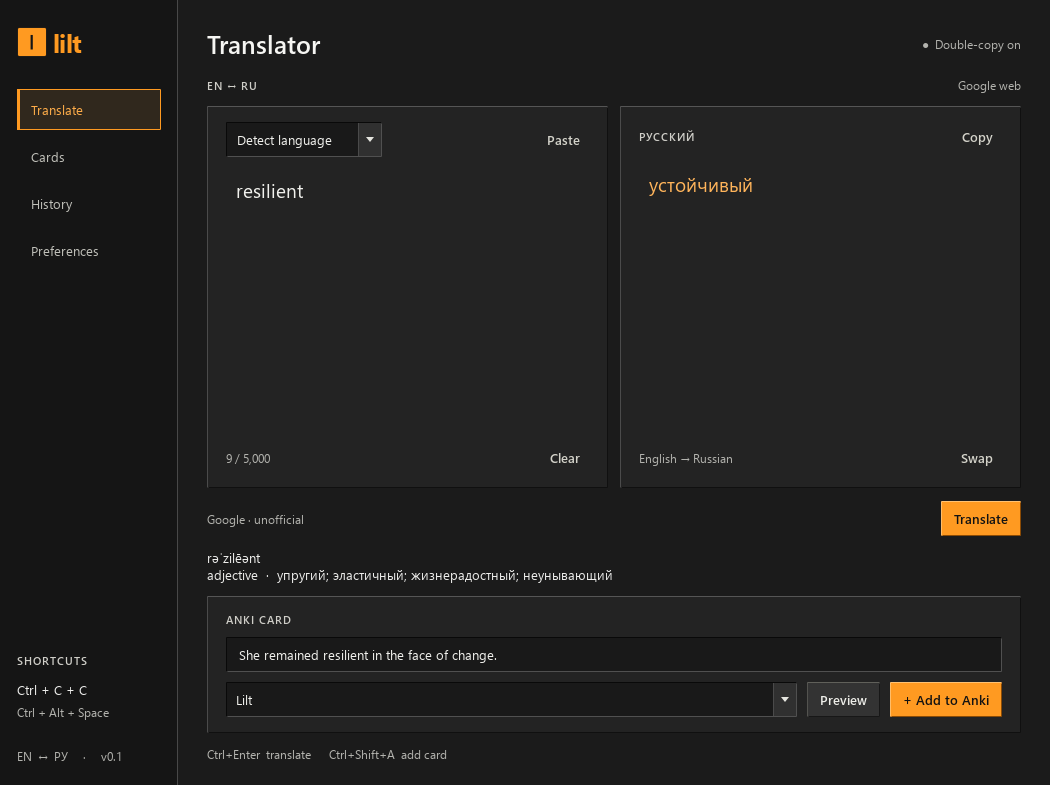
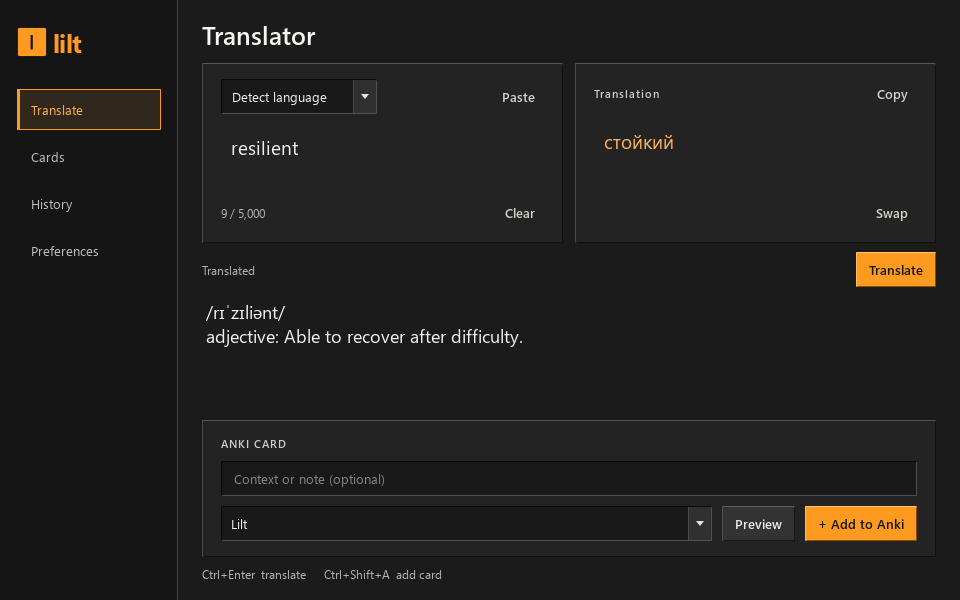
Add Windows installer and first release documentation

diff --git a/README.md b/README.md
@@ -1,24 +1,37 @@
 # Lilt
 
-A small Windows desktop translator for **English ↔ Russian**, with a quick selection popup, local translation history, and shortcut-driven Anki cards. No Lilt account is needed.
+A small Windows desktop translator for **English ↔ Russian**, with a quick selection popup, local history, and English vocabulary cards for Anki. No Lilt account is needed.
 
-The interface uses a charcoal theme, orange accents, sharp borders, and square checkboxes. The main window starts at **960 × 600**, with compact text panes for words and short phrases. Translation text stays at **19 px**; pronunciation and details use **18 px** with wrapping and scrolling. Resize the window for longer text. Repeated language/provider badges and capture-status help are hidden; language selection, Swap, and Preferences remain available.
+**[Download setup.exe for Windows](https://github.com/PesochekWork/lilt-translator/releases/latest/download/setup.exe)** · [All releases](https://github.com/PesochekWork/lilt-translator/releases)
+
+## Install
+
+Requires **Windows 10 or 11, 64-bit (x64)**. Python is not needed.
+
+1. Download **setup.exe** from the latest release and run it.
+2. Follow the setup wizard. Lilt installs for your Windows account without administrator privileges. A Start menu entry and a desktop shortcut are included by default.
+3. Open **Lilt** and enter a word, or use the selection shortcut below.
+
+The installer is not code-signed, so Windows may show a SmartScreen prompt. Download it from this repository's Releases page.
+
+Before updating, save any text you need and choose **Quit Lilt** from its system-tray menu. Closing the window normally leaves the app running. Install the new release over the existing one to keep your history, cards, and preferences.
+
+To uninstall, use **Windows Settings → Apps → Lilt**. Uninstalling removes the application and its shortcuts, but keeps your personal data in **`%LOCALAPPDATA%\Lilt`**. Anki, AnkiConnect, and speech voices are separate and are not installed or removed by Lilt setup.
+
+For a folder-only package, download **Lilt-0.1.0-windows-x64.zip** from the [release page](https://github.com/PesochekWork/lilt-translator/releases), extract it, and run **Lilt.exe**. Keep the extracted folder together. Both packages use the same local data folder; the ZIP does not isolate your history or settings. Release assets also include **SHA256SUMS.txt** for download verification.
+
+## What Lilt does
+
+- Translate English and Russian words, phrases, and text up to 5,000 characters.
+- Open a compact popup from a selection with **Ctrl+C, C**, without leaving what you are reading.
+- Show English definitions and pronunciation when dictionary information is available.
+- Save English-first Anki cards with Russian translations, definitions, pronunciation, and optional context.
+- Read the English word aloud in Anki using its native text-to-speech support.
+- Keep translation history and cards locally, including cards waiting for Anki.
+
+The charcoal interface opens at **960 × 600**, with compact text panes and readable pronunciation/details. Resize the window for longer text; the content wraps and scrolls.
 
 ![Lilt translator](docs/translator.png)
-
-## Run
-
-Open **`dist/Lilt/Lilt.exe`** from the packaged build. Keep the entire `dist/Lilt` folder together; the executable needs its adjacent files. Python is not required to run this package.
-
-To run from source, use Python 3.12 or newer on Windows (tested with Python 3.14). In this project folder:
-
-```powershell
-python -m venv .venv
-.\.venv\Scripts\python.exe -m pip install -r requirements.txt
-.\.venv\Scripts\python.exe -m lilt
-```
-
-With the environment activated, the launch command is simply `python -m lilt`. Opening Lilt again brings its existing window forward.
 
 ## Translate while reading
 
@@ -42,9 +55,9 @@ For short English words or phrases, Lilt also requests English definitions and p
 
 ## Translation providers and connection drops
 
-**Google web** is the default and needs no account or API key. It uses an unofficial Google endpoint that may change, reject requests, or become unavailable. It worked from the development machine during setup; this does not guarantee availability on every network or future date. Lilt shows connection and service errors so you can retry.
+**Google web** is the default and needs no account or API key. It uses an unofficial Google endpoint that may change, reject requests, or become unavailable. Lilt shows connection and service errors so you can retry.
 
-**DeepL API** is optional. Enter your own API key in **Preferences**, select DeepL, and click **Save preferences**. Lilt uses DeepL's official API, separate from its desktop application. Its live integration has not been verified without a real key. Your DeepL account's current plan and allowance apply; see [DeepL's API documentation](https://developers.deepl.com/docs) and [plan information](https://support.deepl.com/hc/en-us/articles/360021200939-DeepL-API-plans).
+**DeepL API** is optional. Enter your own API key in **Preferences**, select DeepL, and click **Save preferences**. Lilt uses DeepL's official API, separate from its desktop application. Your DeepL account's plan and allowance apply; see [DeepL's API documentation](https://developers.deepl.com/docs) and [plan information](https://support.deepl.com/hc/en-us/articles/360021200939-DeepL-API-plans).
 
 New translations need an internet connection. Previously saved results can be reused locally for the **same text, source-language setting, and provider**. This exact-query cache is not a general offline translation engine. **History** lets you read earlier results. **Clear history** removes both history and cached translations while keeping your cards.
 
@@ -52,7 +65,7 @@ New translations need an internet connection. Previously saved results can be re
 
 Lilt connects to Anki desktop on this computer through [AnkiConnect](https://git.sr.ht/~foosoft/anki-connect).
 
-1. In Anki, open **Tools → Add-ons → Get Add-ons** and enter **`2055492159`** ([AnkiWeb listing](https://ankiweb.net/shared/info/2055492159)).
+1. Install [Anki desktop](https://apps.ankiweb.net/) if needed. In Anki, open **Tools → Add-ons → Get Add-ons** and enter **`2055492159`** ([AnkiWeb listing](https://ankiweb.net/shared/info/2055492159)).
 2. Restart Anki and leave it open with your collection loaded.
 3. In Lilt's **Preferences**, click **Test connection**. If Anki asks to allow access, approve Lilt's connection. AnkiConnect listens at `127.0.0.1:8765`; no AnkiWeb account is needed for local card creation.
 4. Translate something, optionally add a context sentence, and choose or type a deck name. A new deck is created when the card is sent.
@@ -60,7 +73,7 @@ Lilt connects to Anki desktop on this computer through [AnkiConnect](https://git
 
 New cards use the note type **Lilt Vocabulary v2**, created automatically on the first **Add to Anki** if absent. Its fields are **English**, **Russian**, **Definition**, **Pronunciation**, **Context**, and **DictionarySource**, in that order. The English word is centered on the front; the back centers the word, Russian translation, available English definitions and phonetic text, and optional context. Dictionary source/license metadata stays in **DictionarySource** and exports, without visible source links on the review card. Russian → English input uses the same English-first card layout. **Preview** and **Cards** show these saved details. If dictionary information is unavailable, a translation card can still be saved with those optional fields empty.
 
-Existing local cards and the original **Lilt** note type (**Front / Back / Context**) keep their original content and behavior. Normal Lilt card creation does not rewrite existing Anki templates, including user edits. If a note type already has the new name but different fields, Lilt reports the conflict instead of changing it. The requested centering and speech update to this computer's existing **Lilt Vocabulary v2** templates is applied separately after a local backup; it affects how those existing notes are displayed, without changing their field contents.
+Existing local cards and the original **Lilt** note type (**Front / Back / Context**) keep their original content and behavior. Lilt does not rewrite existing Anki templates, including user edits. If **Lilt Vocabulary v2** already exists, its current templates stay unchanged; the centered layout and speech template are installed when Lilt creates that note type. If its fields differ from those listed above, Lilt reports the conflict instead of changing it.
 
 Cards are saved locally before sending. If Anki is closed or unreachable, open **Cards** later and click **Send to Anki** on a waiting card. Retry is explicit; leaving a card waiting does not automatically send it. A successful send is marked **In Anki**. Removing a local card from Lilt leaves any existing Anki note in place.
 
@@ -110,6 +123,20 @@ Text is sent to the selected translation provider only when you click **Translat
 - Google's alternatives and transliteration are provider-dependent. Real English definitions and phonetic text come from the separate optional dictionary lookup, including when using DeepL.
 - There is no bundled offline translation model, recorded pronunciation audio, OCR, or automatic context extraction in this version. Anki speech uses the system voice as described above.
 
+## Run from source
+
+Use **Python 3.12 or newer** on Windows (development and tests use Python 3.14):
+
+```powershell
+git clone https://github.com/PesochekWork/lilt-translator.git
+cd lilt-translator
+python -m venv .venv
+.\.venv\Scripts\python.exe -m pip install -r requirements.txt
+.\.venv\Scripts\python.exe -m lilt
+```
+
+Opening Lilt again brings its existing window forward, including when another copy is running from an installation or a build folder. Quit the tray instance before switching between versions.
+
 ## Test and build
 
 From the project folder, with the source environment installed:
@@ -118,13 +145,24 @@ From the project folder, with the source environment installed:
 .\.venv\Scripts\python.exe -m unittest discover -s tests -v
 ```
 
-Build the Windows folder package with:
+Activate the environment and build the Windows folder package with:
 
 ```powershell
+.\.venv\Scripts\Activate.ps1
 .\build.ps1
 ```
 
-The build produces `dist/Lilt/Lilt.exe`. Run it from its folder, then check translation, popup capture, tray behavior, and your Anki connection. Automated tests exercise behavior using controlled responses; a live service check establishes availability only at the time and place it runs. DeepL requires your own key for live verification.
+The build installs its build dependencies, runs the test suite, packages with PyInstaller, and checks the resulting executable. It produces **`dist/Lilt/Lilt.exe`**. Keep the entire **`dist/Lilt`** folder together; the executable needs its adjacent files. This package also runs without Python.
+
+Build the Windows installer with:
+
+```powershell
+.\build-installer.ps1
+```
+
+The installer build requires [Inno Setup 6](https://jrsoftware.org/isinfo.php) and produces **`dist/installer/setup.exe`** after building and checking the application. To package an already verified folder build, use **`-PackageDir`**; **`-OutputDir`** and **`-CompilerPath`** override the output directory and Inno Setup compiler location. Build outputs are ignored by Git and distributed through GitHub Releases.
+
+After a build, check translation, popup capture, tray behavior, and your Anki connection. Automated tests use controlled translation/dictionary responses and isolated Anki fixtures; they do not create cards in your collection. Live services can vary by network and time. DeepL requires your own key for live verification.
 
 For a noninteractive package check that uses no network, keyboard hook, or personal Anki collection:
 

diff --git a/PROJECT_NOTES.md b/PROJECT_NOTES.md
@@ -1,8 +1,8 @@
-# Lilt project handoff
+# Lilt project notes
 
-## Continue on another Windows PC
+## Repository and development
 
-The project is in the private repository **[PesochekWork/lilt-translator](https://github.com/PesochekWork/lilt-translator)**, branch **main**. The home checkout is `C:\Users\Admin\Documents\GIT\lilt-translator`. The project includes the compact UI, dictionary-enriched vocabulary cards, and native Anki speech. To continue on another PC, sign into a GitHub account with access, then:
+The project is in the public repository **[PesochekWork/lilt-translator](https://github.com/PesochekWork/lilt-translator)**, branch **main**. The project includes the compact UI, dictionary-enriched vocabulary cards, and native Anki speech. Windows users can install **setup.exe** from GitHub Releases without Python; developers can clone and run from source:
 
 ```powershell
 git clone https://github.com/PesochekWork/lilt-translator.git
@@ -12,7 +12,7 @@ python -m venv .venv
 .\.venv\Scripts\python.exe -m lilt
 ```
 
-Use Python 3.12 or newer; development and tests used Python 3.14. Tell the next coding assistant to read this file and README.md first. New vocabulary templates include native Anki speech for the English word.
+Use Python 3.12 or newer; development and tests use Python 3.14. Read this file and README.md before making changes. New vocabulary templates include native Anki speech for the English word.
 
 ## Product and preferences
 
@@ -29,10 +29,10 @@ Use Python 3.12 or newer; development and tests used Python 3.14. Tell the next 
 - The exact-query cache reuses the same text, source-language setting, and provider. It is **not an offline translation engine**. History can display saved translations without a network request.
 - Optional **Free Dictionary API** lookup adds actual English definitions, phonetic text and source/license attribution, with no key. Only short English queries (up to 80 characters/four words) are requested. Dictionary failure leaves translation and card creation usable. Fresh translation results cache the enrichment; Preview/Add can retry missing information. Google's translated alternatives/romanization are distinct from these English definitions/IPA and must not populate those card fields.
 - **AnkiConnect** connects locally at `127.0.0.1:8765` (add-on **2055492159**). New cards use **Lilt Vocabulary v2** with ordered fields **English / Russian / Definition / Pronunciation / Context / DictionarySource**. Both translation directions produce English-front cards. Preview and Cards display the rich snapshot; optional dictionary fields may be empty. Vocabulary templates center the English word, pronunciation, Russian translation, definitions and optional context. Dictionary source/license attribution remains in the note field and TSV export, without visible source links on the review face.
-- Old local cards and the original **Lilt** model (**Front / Back / Context**) are preserved. The database adds versioned rich fields and keeps existing rows/content/note IDs. Normal card creation never rewrites existing Anki templates or user edits; a v2 field-name conflict is reported. The user's requested update to this computer's existing **Lilt Vocabulary v2** templates is a separate, explicit migration after a local backup, preserving note fields and the original **Lilt** model. Cards save locally before sending and remain pending for explicit retry when Anki is unavailable. Verification must use mocks/isolated fixtures for writes, not test notes in the user's collection.
+- Old local cards and the original **Lilt** model (**Front / Back / Context**) are preserved. The database adds versioned rich fields and keeps existing rows/content/note IDs. Card creation never rewrites existing Anki templates or user edits; a v2 field-name conflict is reported. The centered layout and speech template apply when Lilt creates **Lilt Vocabulary v2**; existing templates are left unchanged. Cards save locally before sending and remain pending for explicit retry when Anki is unavailable. Verification must use mocks/isolated fixtures for writes, not test notes in a personal collection.
 - TSV export containing rich cards uses note-type/deck columns followed by the fields in each model's order. Mixed files include old rows as **Lilt** and new rows as **Lilt Vocabulary v2**; pure-old-card exports retain **Front / Back / Context / Deck**. Note types must exist before import: a normal Add creates v2, or manually create its six ordered fields. See README for mapping.
-- Speech uses Anki's native **`{{tts en_US:English}}`** once on the front. The answer uses **FrontSide**; with the user's existing `replayq=true`, **R/F5** replays only the English word on either side without duplicate speech. **Skip question when replaying answer** must stay off for answer-side keyboard replay. It relies on an installed Windows English voice; no new speech backend, service, API key, voice or recorded media is installed. Playback follows the user's existing Anki autoplay setting; do not change shared deck presets silently. The user can choose **Don't play audio automatically** in deck Audio options for replay-only behavior. Missing suitable voices do not prevent reading the card text.
-- SQLite stores history, cache, cards, and preferences under **`%LOCALAPPDATA%\Lilt`**. Optional keys are stored separately using **Windows DPAPI**, bound to the Windows account/computer. Re-enter keys on the home PC. **Never put secrets or personal databases in the repository.**
+- Speech uses Anki's native **`{{tts en_US:English}}`** once on the front. The answer uses **FrontSide**; with Anki's `replayq=true`, **R/F5** replays only the English word on either side without duplicate speech. **Skip question when replaying answer** must stay off for answer-side keyboard replay. It relies on an installed Windows English voice; no new speech backend, service, API key, voice or recorded media is installed. Playback follows Anki's existing autoplay setting; do not change shared deck presets silently. Users can choose **Don't play audio automatically** in deck Audio options for replay-only behavior. Missing suitable voices do not prevent reading the card text.
+- SQLite stores history, cache, cards, and preferences under **`%LOCALAPPDATA%\Lilt`**. Optional keys are stored separately using **Windows DPAPI**, bound to the Windows account/computer. Re-enter keys after changing computers or Windows accounts. **Never put secrets or personal databases in the repository.**
 
 ## Validate and package
 
@@ -44,4 +44,8 @@ Run the automated suite and packaged `--self-test` after changes. Tests use cont
 
 With the intended Python environment activated, run **`.\build.ps1`**. It installs build tools, runs tests, packages with **Lilt.spec**, and runs the noninteractive package self-check. Preserve the spec's ICU exclusion: PyInstaller previously picked an unrelated **icuuc.dll / icudt78.dll** from PATH whose versioned exports broke Qt imports. The app relies on Windows' system ICU.
 
-The default executable is **`dist/Lilt/Lilt.exe`**; keep its entire folder together. Build outputs and the distribution ZIP are ignored and **are not on GitHub**. Clone and run/build locally, or separately transfer the full packaged folder/ZIP. Windows locks loaded application files: preserve an active instance and its text, build to a sibling output when necessary, and point the existing desktop **Lilt** shortcut to the verified new package. Opening another copy activates the existing instance, so the user must choose tray **Quit Lilt**, then reopen when ready to see a new build. Personal settings/history/cards do not travel with the Git clone.
+The default executable is **`dist/Lilt/Lilt.exe`**; keep its entire folder together. **`build-installer.ps1`** builds the application by default, then uses **Inno Setup 6** to create **`dist/installer/setup.exe`**. Its **`-PackageDir`** option accepts an already verified package; **`-OutputDir`** and **`-CompilerPath`** override the output and compiler paths. The installer targets **Windows 10/11 x64**, installs per user under **`%LOCALAPPDATA%\Programs\Lilt`**, creates a Start menu entry and a default desktop shortcut, and retains **`%LOCALAPPDATA%\Lilt`** on uninstall. It does not install Anki, voices, or Windows startup tasks. The installer is unsigned.
+
+Version **0.1.0** is the first public release. GitHub Releases distribute **setup.exe**, a **Lilt-0.1.0-windows-x64.zip** folder package, and **SHA256SUMS.txt**. Generated packages stay ignored in Git; only source and packaging instructions are tracked. Keep the README's latest-release installer link stable by naming each release's primary asset **setup.exe**.
+
+Windows locks loaded application files: preserve an active instance and its text, build to a sibling output when necessary, and point an existing desktop **Lilt** shortcut to the verified package if requested. Opening another copy activates the existing instance, so choose tray **Quit Lilt**, then reopen when ready to see a new build. Personal settings/history/cards do not travel with the Git clone or distribution ZIP.
